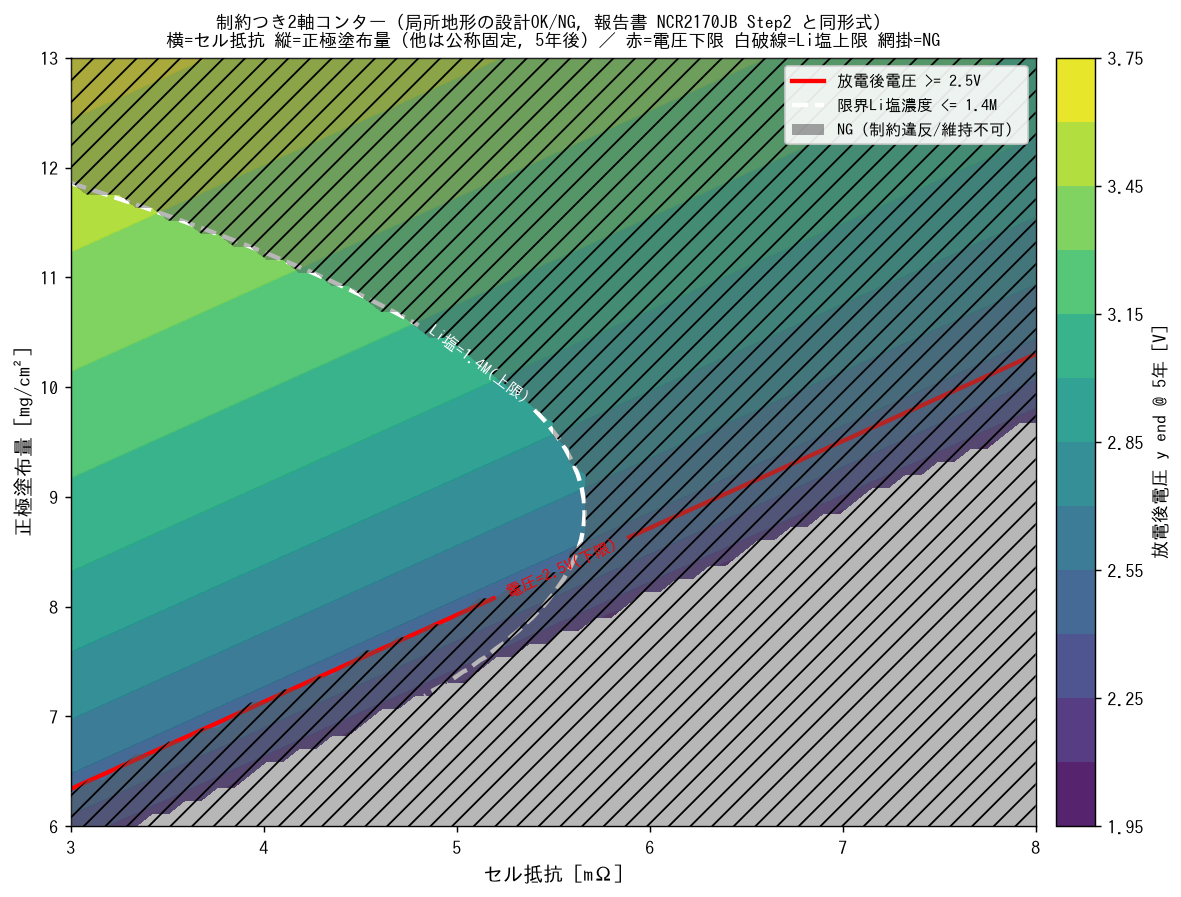
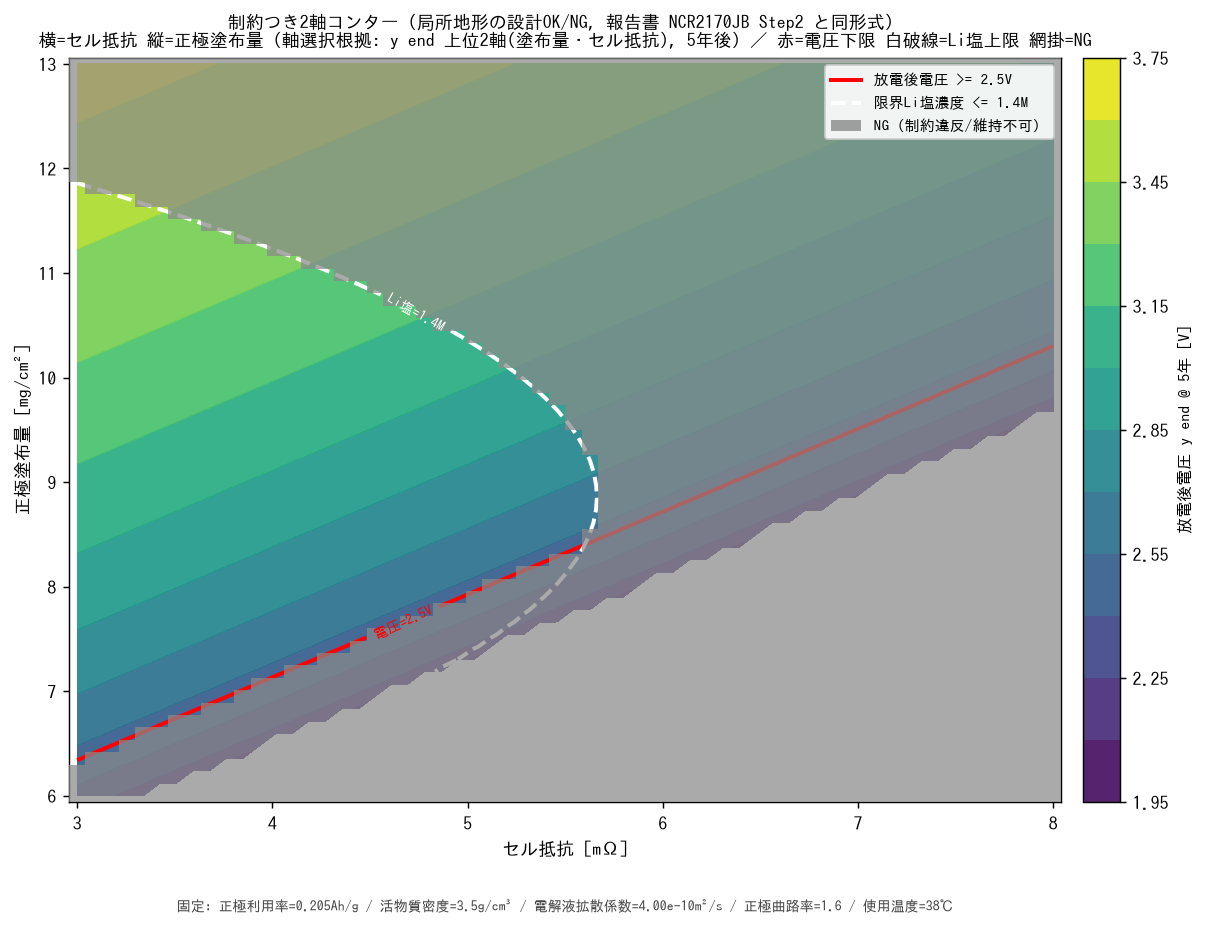
feat(explorer): 第3版 可視化 (D群/E-6) — コンター拡張・積み上げ・図5強化
- contour: color_by(Cli断面)/固定値注記(D-1)/軸選択根拠明記(D-2)
- contour_gamma3: 曲路率 低/中/高 の3条件比較(D-3)。NG描画をpcolormesh+マスクに
  修正(一様NG/feasible域漏れの不具合を解消)
- fig_mode_stacked: 抵抗劣化/拡散劣化/300W維持不可 の3区分100%積み上げ(E-6)
- fig_conditional_staged: 各領域に代入率を明記(D-4-3)

Claude-Session: https://claude.ai/code/session_01VEGZZF1ryQS1BK1xqjgiwQ

diff --git a/mf_demo/explorer/viz_explorer.py b/mf_demo/explorer/viz_explorer.py
@@ -13,6 +13,7 @@ import matplotlib
 matplotlib.use("Agg")
 import matplotlib.pyplot as plt
 from matplotlib.lines import Line2D
+from matplotlib.colors import ListedColormap
 from matplotlib.patches import FancyBboxPatch, FancyArrowPatch
 
 from .config import XKEYS, VARSPEC, RESPONSES
@@ -89,10 +90,23 @@ def parallel_coordinates(df, active_keys, ST, path, brush=None, t_ref=T_REF,
 # ---------------------------------------------------------------------------
 # ③ 制約つき2軸コンター（セル抵抗 × 正極塗布量, 報告書 NCR2170JB Step2）
 # ---------------------------------------------------------------------------
-def contour_2axis(path, xkey="R0_init", ykey="coat_load", nominal=None, ng=60,
-                  t_ref=T_REF):
-    if nominal is None:
-        nominal = {k: VARSPEC[k]["mean"] for k in XKEYS}
+def _fixed_note(xkey, ykey, nominal):
+    """軸に取らない5変数の固定値を文字列化（D-1: 固定値明記）。"""
+    unit = {"R0_init": "mΩ", "coat_load": "mg/cm²", "am_cap": "Ah/g",
+            "mix_density": "g/cm³", "Dely": "m²/s", "gamma": "", "T_use": "℃"}
+    parts = []
+    for k in XKEYS:
+        if k in (xkey, ykey):
+            continue
+        v = nominal[k]
+        vs = f"{v:.2e}" if v < 1e-3 else (f"{v:.3g}")
+        parts.append(f"{SHORT[k].splitlines()[0]}={vs}{unit[k]}")
+    return "固定: " + " / ".join(parts)
+
+
+def _draw_contour(ax, fig, xkey, ykey, nominal, ng, t_ref, color_by="y_end",
+                  show_cbar=True):
+    """1枚のコンターを ax に描画。塗り=color_by、両制約線＋NG網掛け。"""
     xr = np.linspace(*VARSPEC[xkey]["design"], ng)
     yr = np.linspace(*VARSPEC[ykey]["design"], ng)
     XX, YY = np.meshgrid(xr, yr)
@@ -102,31 +116,70 @@ def contour_2axis(path, xkey="R0_init", ykey="coat_load", nominal=None, ng=60,
             x = dict(nominal); x[xkey] = XX[a, b]; x[ykey] = YY[a, b]
             r = responses_at(x, t_ref)
             YEND[a, b] = r["y_end"]; CLI[a, b] = r["Cli"]
-
-    fig, ax = plt.subplots(figsize=(9.2, 7))
-    cf = ax.contourf(XX, YY, YEND, levels=14, cmap="viridis", alpha=0.92)
-    fig.colorbar(cf, ax=ax, fraction=0.045, pad=0.02).set_label(
-        f"放電後電圧 y_end @ {t_ref:.0f}年 [V]", fontsize=10)
-    cl = ax.contour(XX, YY, YEND, levels=[Y_MIN], colors="red", linewidths=2.4)
-    ax.clabel(cl, fmt=f"電圧={Y_MIN:.1f}V(下限)", fontsize=9)
-    ct = ax.contour(XX, YY, CLI, levels=[CLI_MAX], colors="white", linewidths=2.4,
+    field = YEND if color_by == "y_end" else CLI
+    flabel = (f"放電後電圧 y_end @ {t_ref:.0f}年 [V]" if color_by == "y_end"
+              else f"限界Li塩濃度 Cli @ {t_ref:.0f}年 [mol/L]")
+    cmap = "viridis" if color_by == "y_end" else "plasma"
+    cf = ax.contourf(XX, YY, field, levels=14, cmap=cmap, alpha=0.92)
+    if show_cbar:
+        fig.colorbar(cf, ax=ax, fraction=0.045, pad=0.02).set_label(flabel, fontsize=9)
+    cl = ax.contour(XX, YY, YEND, levels=[Y_MIN], colors="red", linewidths=2.2)
+    ax.clabel(cl, fmt=f"電圧={Y_MIN:.1f}V", fontsize=8)
+    ct = ax.contour(XX, YY, CLI, levels=[CLI_MAX], colors="white", linewidths=2.2,
                     linestyles="--")
-    ax.clabel(ct, fmt=f"Li塩={CLI_MAX:.1f}M(上限)", fontsize=9)
+    ax.clabel(ct, fmt=f"Li塩={CLI_MAX:.1f}M", fontsize=8)
     NG = (~(YEND >= Y_MIN)) | (~(CLI <= CLI_MAX)) | ~np.isfinite(YEND)
-    ax.contourf(XX, YY, NG.astype(float), levels=[0.5, 1.5], colors=["#555"],
-                alpha=0.42, zorder=3)
-    ax.contourf(XX, YY, NG.astype(float), levels=[0.5, 1.5], colors="none",
-                hatches=["//"], zorder=3.1)
-    ax.set_xlabel(SHORT[xkey].replace("\n", " "), fontsize=11)
-    ax.set_ylabel(SHORT[ykey].replace("\n", " "), fontsize=11)
+    # NG のみ灰色で塗る（pcolormesh+マスクにより全NG/全OKの一様ケースでも正しく描画）
+    ng_m = np.ma.masked_where(~NG, np.ones_like(XX, dtype=float))
+    ax.pcolormesh(XX, YY, ng_m, cmap=ListedColormap(["#8a8a8a"]), vmin=0, vmax=1,
+                  alpha=0.72, zorder=3, shading="auto")
+    ax.set_xlabel(SHORT[xkey].replace("\n", " "), fontsize=10)
+    ax.set_ylabel(SHORT[ykey].replace("\n", " "), fontsize=10)
+    return cf
+
+
+def contour_2axis(path, xkey="R0_init", ykey="coat_load", nominal=None, ng=60,
+                  t_ref=T_REF, color_by="y_end", axis_basis="y_end 上位2軸"):
+    if nominal is None:
+        nominal = {k: VARSPEC[k]["mean"] for k in XKEYS}
+    fig, ax = plt.subplots(figsize=(9.4, 7.2))
+    _draw_contour(ax, fig, xkey, ykey, nominal, ng, t_ref, color_by)
     ax.set_title("制約つき2軸コンター（局所地形の設計OK/NG, 報告書 NCR2170JB Step2 と同形式）\n"
-                 f"横={SHORT[xkey].splitlines()[0]} 縦={SHORT[ykey].splitlines()[0]}（他は公称固定, {t_ref:.0f}年後）"
-                 "／ 赤=電圧下限 白破線=Li塩上限 網掛=NG", fontsize=10)
-    handles = [Line2D([0], [0], color="red", lw=2.4, label=f"放電後電圧 >= {Y_MIN}V"),
-               Line2D([0], [0], color="white", lw=2.4, ls="--", label=f"限界Li塩濃度 <= {CLI_MAX}M"),
+                 f"横={SHORT[xkey].splitlines()[0]} 縦={SHORT[ykey].splitlines()[0]}"
+                 f"（軸選択根拠: {axis_basis}, {t_ref:.0f}年後）／ 赤=電圧下限 白破線=Li塩上限 網掛=NG",
+                 fontsize=10)
+    handles = [Line2D([0], [0], color="red", lw=2.2, label=f"放電後電圧 >= {Y_MIN}V"),
+               Line2D([0], [0], color="white", lw=2.2, ls="--", label=f"限界Li塩濃度 <= {CLI_MAX}M"),
                plt.Rectangle((0, 0), 1, 1, fc="#55555588", label="NG（制約違反/維持不可）")]
-    ax.legend(handles=handles, fontsize=9, loc="upper right", framealpha=0.9)
+    ax.legend(handles=handles, fontsize=8.5, loc="upper right", framealpha=0.9)
+    ax.text(0.5, -0.13, _fixed_note(xkey, ykey, nominal), transform=ax.transAxes,
+            ha="center", va="top", fontsize=8, color="#444")
     fig.tight_layout(); fig.savefig(path, bbox_inches="tight"); plt.close(fig)
+
+
+def contour_gamma3(path, xkey="R0_init", ykey="coat_load", gammas=(1.4, 1.7, 2.0),
+                   ng=60, t_ref=T_REF):
+    """D-3: 曲路率 低/中/高 の3条件でコンターを横並び（固定値の影響を可視化）。"""
+    fig, axes = plt.subplots(1, 3, figsize=(18, 6), sharey=True)
+    for ax, g in zip(axes, gammas):
+        nominal = {k: VARSPEC[k]["mean"] for k in XKEYS}
+        nominal["gamma"] = g
+        _draw_contour(ax, fig, xkey, ykey, nominal, ng, t_ref, "y_end",
+                      show_cbar=(ax is axes[-1]))
+        lv = {1.4: "低", 1.7: "中", 2.0: "高"}.get(g, "")
+        ax.set_title(f"正極曲路率 γ={g}（{lv}）", fontsize=10.5)
+        if ax is not axes[0]:
+            ax.set_ylabel("")
+    handles = [Line2D([0], [0], color="red", lw=2.2, label=f"放電後電圧 >= {Y_MIN}V"),
+               Line2D([0], [0], color="white", lw=2.2, ls="--", label=f"限界Li塩濃度 <= {CLI_MAX}M"),
+               plt.Rectangle((0, 0), 1, 1, fc="#55555588", label="NG")]
+    fig.legend(handles=handles, loc="lower center", ncol=3, fontsize=9, frameon=False,
+               bbox_to_anchor=(0.5, -0.02))
+    fig.suptitle("D-3 コンター条件比較（セル抵抗×塗布量, 5年後）：曲路率が上がると限界Li塩濃度上限線(白)が下がり成立域が縮小\n"
+                 f"（他固定: {_fixed_note(xkey, ykey, {k: VARSPEC[k]['mean'] for k in XKEYS}).replace('固定: ','').replace('正極曲路率=1.6 / ','')}）",
+                 fontsize=11)
+    fig.tight_layout(rect=[0, 0.02, 1, 0.93])
+    fig.savefig(path, bbox_inches="tight"); plt.close(fig)
 
 
 # ---------------------------------------------------------------------------

diff --git a/mf_demo/explorer/plots.py b/mf_demo/explorer/plots.py
@@ -207,13 +207,39 @@ def fig_f1_robustness(res, path):
     fig.savefig(path, bbox_inches="tight"); plt.close(fig)
 
 
+def fig_mode_stacked(modefrac, path):
+    """E-6: 抵抗劣化/拡散劣化/300W維持不可 の3区分・合計100%積み上げ面グラフ。
+
+    全サンプル基準なので分母の議論が不要。個体がどこへ流れたかが一目で分かる。
+    """
+    t = np.array(modefrac["times"])
+    valid = np.array(modefrac["valid_frac"])
+    diff = np.array(modefrac["diffusion_frac_all"])   # 全サンプル基準
+    infeasible = (1.0 - valid) * 100
+    diffusion = diff * 100
+    resistance = (valid - diff) * 100                 # 有効 かつ 非拡散
+    fig, ax = plt.subplots(figsize=(9.5, 5.4))
+    ax.stackplot(t, resistance, diffusion, infeasible,
+                 labels=["抵抗劣化モード（有効・非拡散）", "拡散劣化モード（有効・拡散）",
+                         "300W維持不可（無効）"],
+                 colors=["#4C78A8", "#d62728", "#999999"], alpha=0.85)
+    ax.set_xlabel("保存時点 t [year]"); ax.set_ylabel("母集団に占める割合 [%]（合計100%）")
+    ax.set_ylim(0, 100); ax.set_xlim(t.min(), t.max())
+    ax.legend(loc="lower center", fontsize=9, ncol=1, framealpha=0.9)
+    ax.set_title(f"母集団の3区分推移（全サンプル基準・合計100% / {MODE_JP[modefrac['mode']]} / N={modefrac['N']}）：\n"
+                 "維持不可(灰)が16→39%へ増加し両モードを希釈。拡散劣化(赤)は47%を頂点に減少に転じる",
+                 fontsize=10)
+    fig.tight_layout(); fig.savefig(path, bbox_inches="tight"); plt.close(fig)
+
+
 def fig_conditional_staged(staged, response, path):
     """領域条件付き感度（段階的に絞った領域）。因子を分類色でラベル、領域を濃淡で。"""
     x = np.arange(len(XKEYS)); nb = len(staged); w = 0.8 / nb
     fig, ax = plt.subplots(figsize=(12.5, 5.2))
     shades = plt.cm.Reds(np.linspace(0.35, 0.85, nb))
     for i, s in enumerate(staged):
-        lab = f"{s['name']}（{s['n_samples']:,}点/有効{s['valid_rate']:.0%}）"
+        lab = (f"{s['name']}（{s['n_samples']:,}点/有効{s['valid_rate']:.0%}"
+               f"/代入{s.get('nan_rate', 0):.0%}）")
         ax.bar(x + (i - (nb - 1) / 2) * w, s["ST"], w, yerr=s["ST_conf"],
                color=shades[i], capsize=2, error_kw={"lw": 0.7}, label=lab)
     ax.set_xticks(x)
